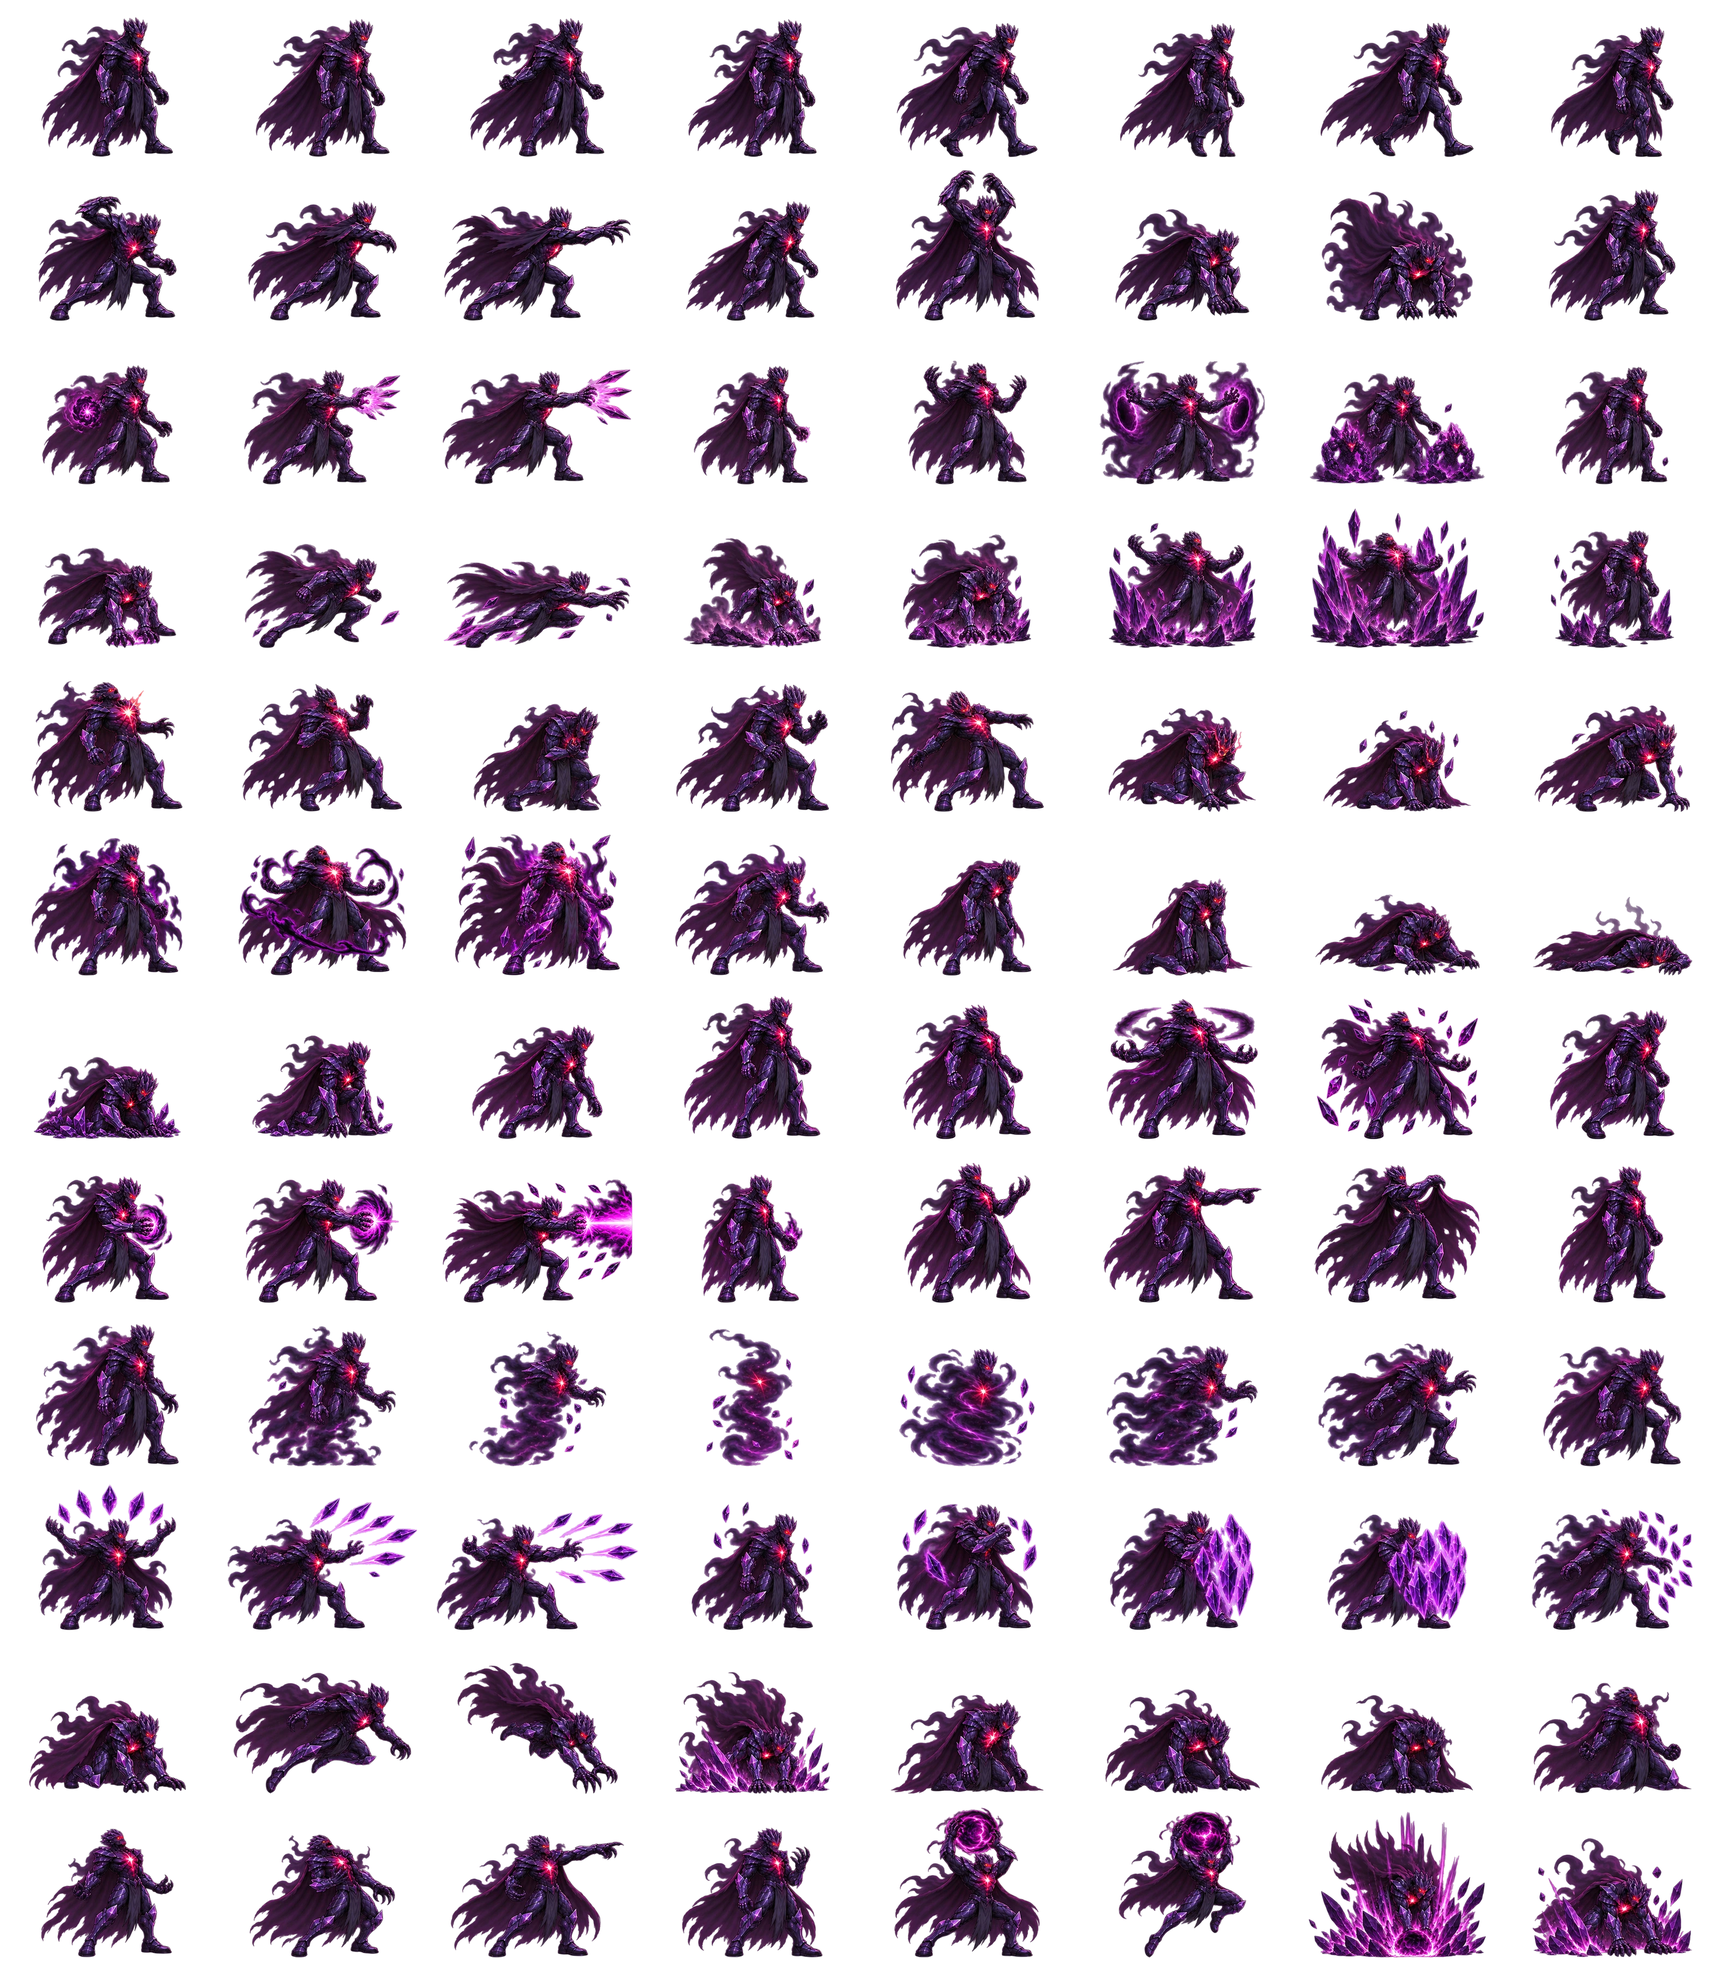
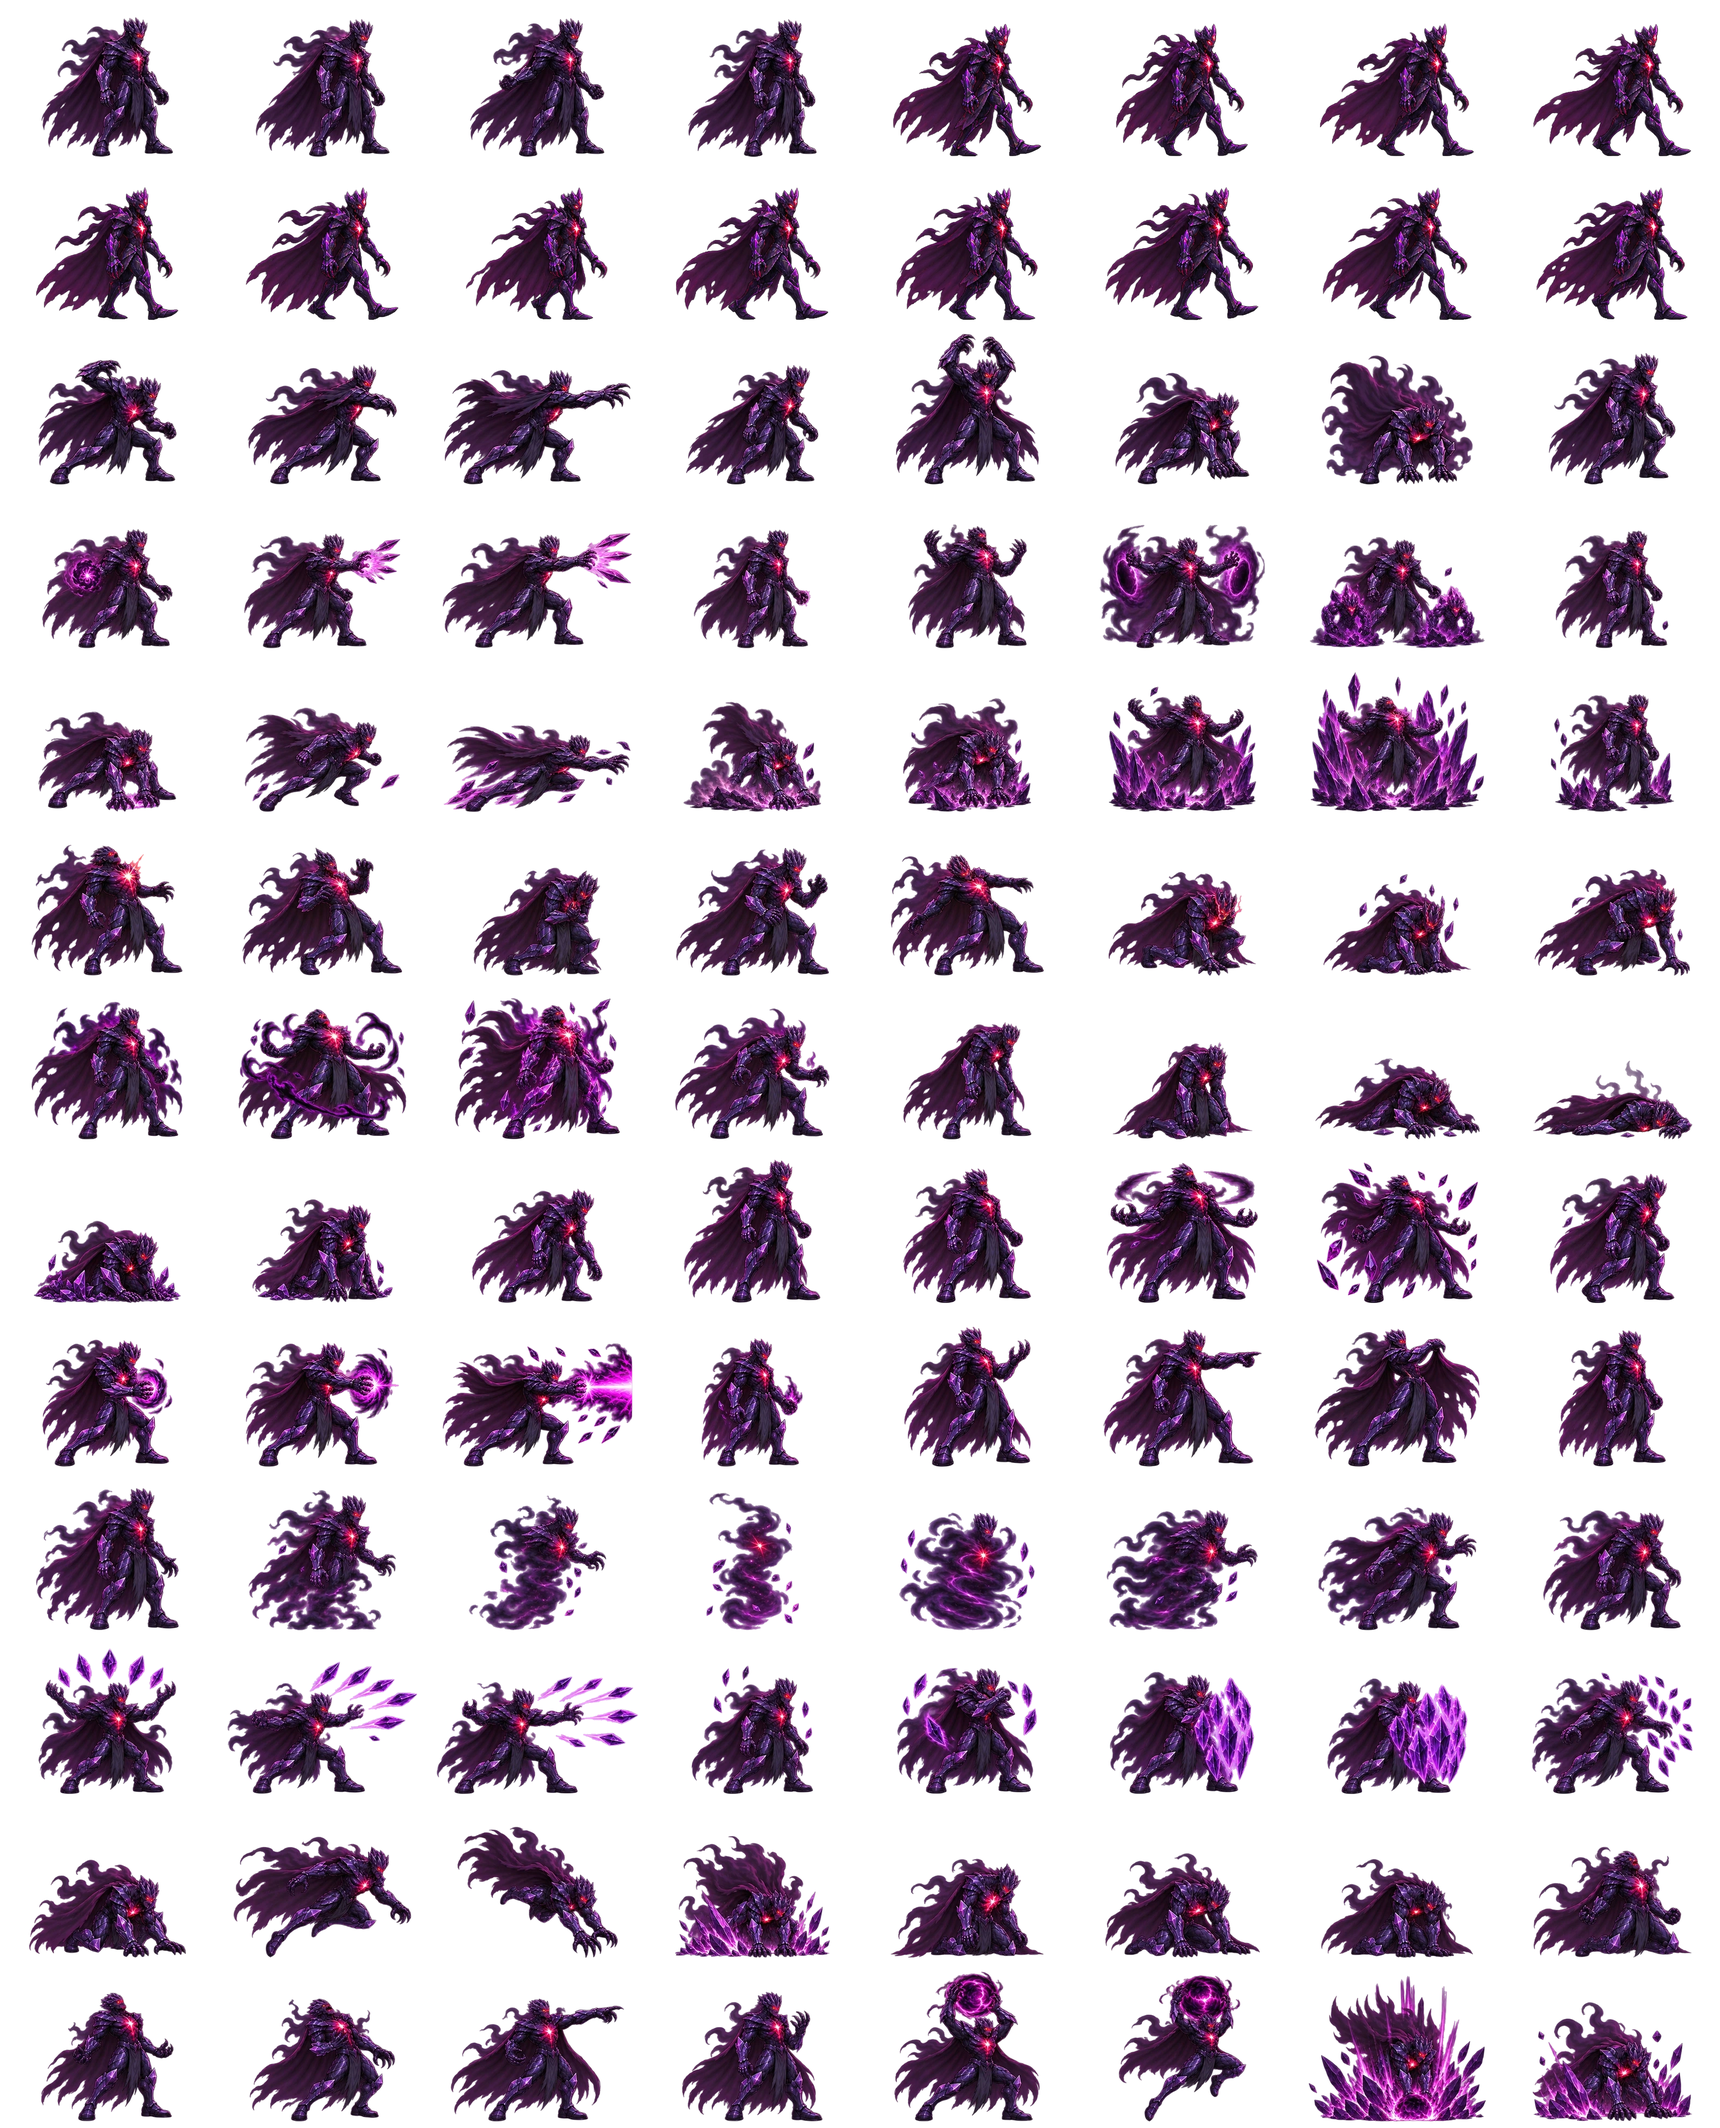
Final boss Arena V3 + Sovereign 12-frame walk
Arena (Angelo 2026-10-22, played V2 on device): the middle was a pile of
blocks. Removed both stone walls and the center lift; the floor is now a
clean dueling lane wall-to-wall. Vertical game moved to mirrored side
balconies (low/mid/high stairs) and a crumbling crown bridge over the
boss's head with a heart at its center; 4 floor springs as fast routes up.

Sovereign walk: wired the approved 12-pose cycle. sovereign2 sheet rebuilt
3152x3900 (104 frames, all anims after walk shifted +8, attack alias kept
on claw), walk 4-15 at 15fps, content h 242 / feet line unchanged.
QA: tsc clean, sprite validator PASS (1384 frames), 7/7 platform tops and
2/2 crumbles stand-tested exact in the harness, spring rise 322px,
sovereign transform + 12-frame walk anim verified live.

diff --git a/src/world/chapter10.ts b/src/world/chapter10.ts
@@ -5,12 +5,16 @@ import type { LevelDef } from "./level";
  * Chapter 10-2 "The Veil Crown" arena. (10-1 is generated by buildSide in
  * level.ts from its set pieces in config.ts, like every other chapter.)
  *
- * Angelo 2026-10-22: the boss arena must be MUCH bigger and vertical — not
- * just run/dodge/shoot. Two screens wide, three platform tiers, floor
- * trampolines, a spring on top of a stone wall, a lift that rides up and
- * down, and crumbling ledges on the high route over the boss's head.
- * Jump apex ~186px, spring apex ~366px: tier steps are 95–125px so every
- * tier is reachable on foot; springs and the lift are the fast way up.
+ * Angelo 2026-10-22 (after playing Arena V2 on his phone): the middle of
+ * the arena was a pile of blocks — two stone walls, a wall-top spring and
+ * the lift all sat in the central band and he "couldn't even play well".
+ * REDESIGN: the floor is a clean dueling lane — NO walls, NO lift, nothing
+ * standing in the middle. The vertical game lives on the edges and
+ * overhead: mirrored stair balconies on both sides (low -> mid -> high)
+ * and a crumbling CROWN BRIDGE that runs over the boss's head from
+ * balcony to balcony, with a heart at its center. Floor springs are the
+ * fast way up; every tier step is 95-120px (jump apex ~186px, spring
+ * apex ~366px), and the crown-bridge gaps are a uniform 89px.
  */
 export function crystalCrownArena(L: LevelDef): LevelDef {
   const G = GROUND_Y;
@@ -24,46 +28,40 @@ export function crystalCrownArena(L: LevelDef): LevelDef {
     { x: 980, y: G - 115, prop: "plat_medium" }
   );
 
-  // --- Arena tiers (x offsets from arena.x0) ---
-  // Low tier: one jump from the floor.
+  // --- Side balconies: mirrored stairs on both edges of the arena ---
+  // West ascent (offsets from arena.x0).
   L.platforms.push(
-    { x: x0 + 260, y: G - 125, prop: "plat_medium" },
-    { x: x0 + 760, y: G - 125, prop: "plat_medium" },
-    { x: x0 + 1800, y: G - 125, prop: "plat_medium" },
-    { x: x0 + 2380, y: G - 125, prop: "plat_medium" }
+    { x: x0 + 280, y: G - 120, prop: "plat_medium" },
+    { x: x0 + 540, y: G - 225, prop: "plat_float" },
+    { x: x0 + 850, y: G - 320, prop: "plat_log" }
   );
-  // Mid tier.
+  // East ascent (mirror: 2560 - offset).
   L.platforms.push(
-    { x: x0 + 520, y: G - 235, prop: "plat_float" },
-    { x: x0 + 1560, y: G - 235, prop: "plat_float" },
-    { x: x0 + 2230, y: G - 235, prop: "plat_float" }
+    { x: x0 + 2280, y: G - 120, prop: "plat_medium" },
+    { x: x0 + 2020, y: G - 225, prop: "plat_float" },
+    { x: x0 + 1710, y: G - 320, prop: "plat_log" }
   );
-  // High tier: the run over the boss's head.
-  L.platforms.push(
-    { x: x0 + 880, y: G - 330, prop: "plat_medium" },
-    { x: x0 + 1330, y: G - 330, prop: "plat_medium" },
-    { x: x0 + 1980, y: G - 330, prop: "plat_medium" }
-  );
-  // Crumbling bridges on the high route — don't stand still up there.
-  L.crumbles.push({ x: x0 + 1105, y: G - 330 }, { x: x0 + 1865, y: G - 330 });
 
-  // Stone walls: a tall one mid-arena with a spring on top, a short step wall.
-  L.walls.push({ x: x0 + 1080, y: G, blocks: 3 }, { x: x0 + 1700, y: G, blocks: 2 });
+  // --- Crown bridge: the run over the boss's head, balcony to balcony ---
+  // The center platform is the throne perch; the two crumbling ledges are
+  // its bridges (uniform 89px gaps). Nothing hangs below it — the floor
+  // underneath stays a clean fighting lane.
+  L.platforms.push({ x: x0 + 1280, y: G - 335, prop: "plat_medium" });
+  L.crumbles.push({ x: x0 + 1075, y: G - 335 }, { x: x0 + 1485, y: G - 335 });
 
-  // Trampolines: two on the floor, one on top of the tall wall.
+  // Trampolines: one per side ascent, one per crown-bridge approach.
+  // Springs never block movement — running over one is a choice to fly.
   L.springs.push(
     { x: x0 + 420, y: G },
-    { x: x0 + 2240, y: G },
-    { x: x0 + 1080, y: G - 210 }
+    { x: x0 + 900, y: G },
+    { x: x0 + 1660, y: G },
+    { x: x0 + 2140, y: G }
   );
-
-  // The lift: rides between the floor and the high tier, mid-arena.
-  L.movers.push({ x0: x0 + 1450, y0: G - 20, x1: x0 + 1450, y1: G - 300, period: 6000 });
 
   L.hearts.push(
     { x: 1050, y: G - 42 },
-    { x: x0 + 260, y: G - 125 - 43 },
-    { x: x0 + 1330, y: G - 330 - 43 }
+    { x: x0 + 850, y: G - 320 - 43 },
+    { x: x0 + 1280, y: G - 335 - 43 }
   );
   L.arena = { x0, x1 };
   L.portal = { x: (x0 + x1) / 2, y: G };

diff --git a/src/assets/sprites.gen.ts b/src/assets/sprites.gen.ts
@@ -2194,168 +2194,168 @@ export const SPRITES = {
       },
       "walk": {
         "start": 4,
-        "end": 7,
-        "frameRate": 9,
+        "end": 15,
+        "frameRate": 15,
         "repeat": -1,
-        "h": 246
+        "h": 242
       },
       "claw": {
-        "start": 8,
-        "end": 11,
+        "start": 16,
+        "end": 19,
         "frameRate": 10,
         "repeat": 0,
         "h": 220
       },
       "slam": {
-        "start": 12,
-        "end": 15,
+        "start": 20,
+        "end": 23,
         "frameRate": 10,
         "repeat": 0,
         "h": 239
       },
       "shoot": {
-        "start": 16,
-        "end": 19,
+        "start": 24,
+        "end": 27,
         "frameRate": 10,
         "repeat": 0,
         "h": 214
       },
       "summon": {
-        "start": 20,
-        "end": 23,
+        "start": 28,
+        "end": 31,
         "frameRate": 10,
         "repeat": 0,
         "h": 221
       },
       "charge": {
-        "start": 24,
-        "end": 27,
+        "start": 32,
+        "end": 35,
         "frameRate": 10,
         "repeat": 0,
         "h": 188
       },
       "erupt": {
-        "start": 28,
-        "end": 31,
+        "start": 36,
+        "end": 39,
         "frameRate": 10,
         "repeat": 0,
         "h": 223
       },
       "hurt": {
-        "start": 32,
-        "end": 35,
+        "start": 40,
+        "end": 43,
         "frameRate": 9,
         "repeat": 0,
         "h": 234
       },
       "stagger": {
-        "start": 36,
-        "end": 39,
+        "start": 44,
+        "end": 47,
         "frameRate": 9,
         "repeat": 0,
         "h": 192
       },
       "enrage": {
-        "start": 40,
-        "end": 43,
+        "start": 48,
+        "end": 51,
         "frameRate": 9,
         "repeat": 0,
         "h": 246
       },
       "dead": {
-        "start": 44,
-        "end": 47,
+        "start": 52,
+        "end": 55,
         "frameRate": 7,
         "repeat": 0,
         "h": 164
       },
       "rise": {
-        "start": 48,
-        "end": 51,
+        "start": 56,
+        "end": 59,
         "frameRate": 8,
         "repeat": 0,
         "h": 200
       },
       "roar": {
-        "start": 52,
-        "end": 55,
+        "start": 60,
+        "end": 63,
         "frameRate": 8,
         "repeat": 0,
         "h": 252
       },
       "beam": {
-        "start": 56,
-        "end": 59,
+        "start": 64,
+        "end": 67,
         "frameRate": 10,
         "repeat": 0,
         "h": 230
       },
       "taunt": {
-        "start": 60,
-        "end": 63,
+        "start": 68,
+        "end": 71,
         "frameRate": 6,
         "repeat": 0,
         "h": 252
       },
       "vanish": {
-        "start": 64,
-        "end": 67,
+        "start": 72,
+        "end": 75,
         "frameRate": 10,
         "repeat": 0,
         "h": 254
       },
       "appear": {
-        "start": 68,
-        "end": 71,
+        "start": 76,
+        "end": 79,
         "frameRate": 10,
         "repeat": 0,
         "h": 221
       },
       "fan": {
-        "start": 72,
-        "end": 75,
+        "start": 80,
+        "end": 83,
         "frameRate": 10,
         "repeat": 0,
         "h": 240
       },
       "shield": {
-        "start": 76,
-        "end": 79,
+        "start": 84,
+        "end": 87,
         "frameRate": 8,
         "repeat": 0,
         "h": 224
       },
       "leap": {
-        "start": 80,
-        "end": 83,
+        "start": 88,
+        "end": 91,
         "frameRate": 10,
         "repeat": 0,
         "h": 222
       },
       "weak": {
-        "start": 84,
-        "end": 87,
+        "start": 92,
+        "end": 95,
         "frameRate": 6,
         "repeat": -1,
         "h": 187
       },
       "laugh": {
-        "start": 88,
-        "end": 91,
+        "start": 96,
+        "end": 99,
         "frameRate": 8,
         "repeat": 0,
         "h": 230
       },
       "meteor": {
-        "start": 92,
-        "end": 95,
+        "start": 100,
+        "end": 103,
         "frameRate": 10,
         "repeat": 0,
         "h": 268
       },
       "attack": {
-        "start": 8,
-        "end": 11,
+        "start": 16,
+        "end": 19,
         "frameRate": 10,
         "repeat": 0,
         "h": 220
